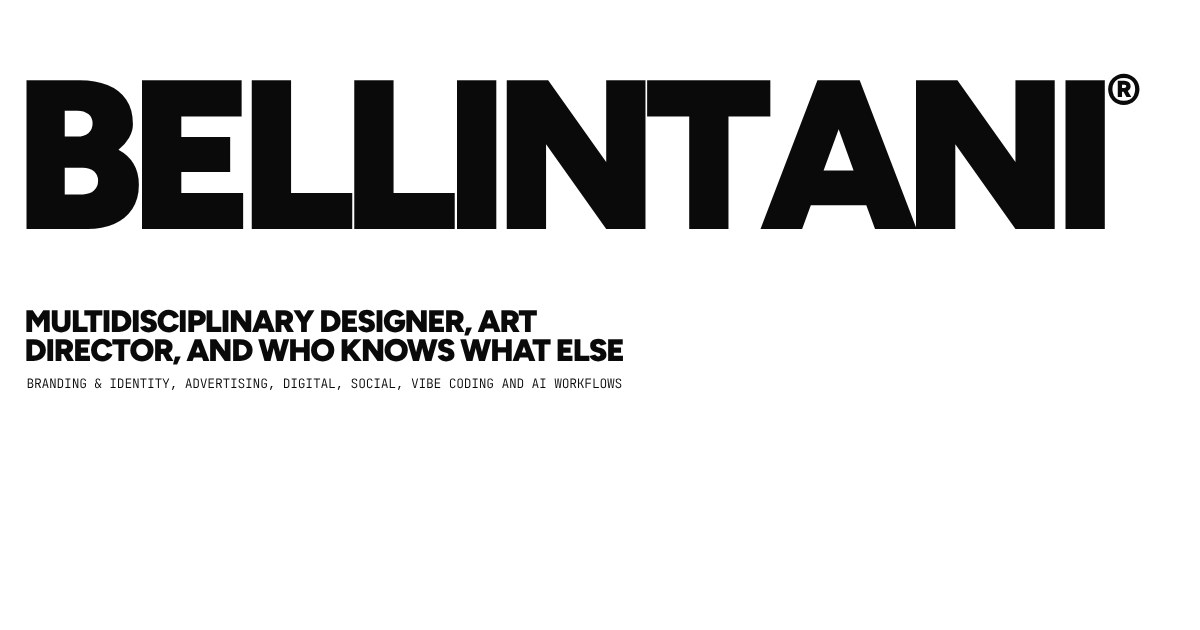
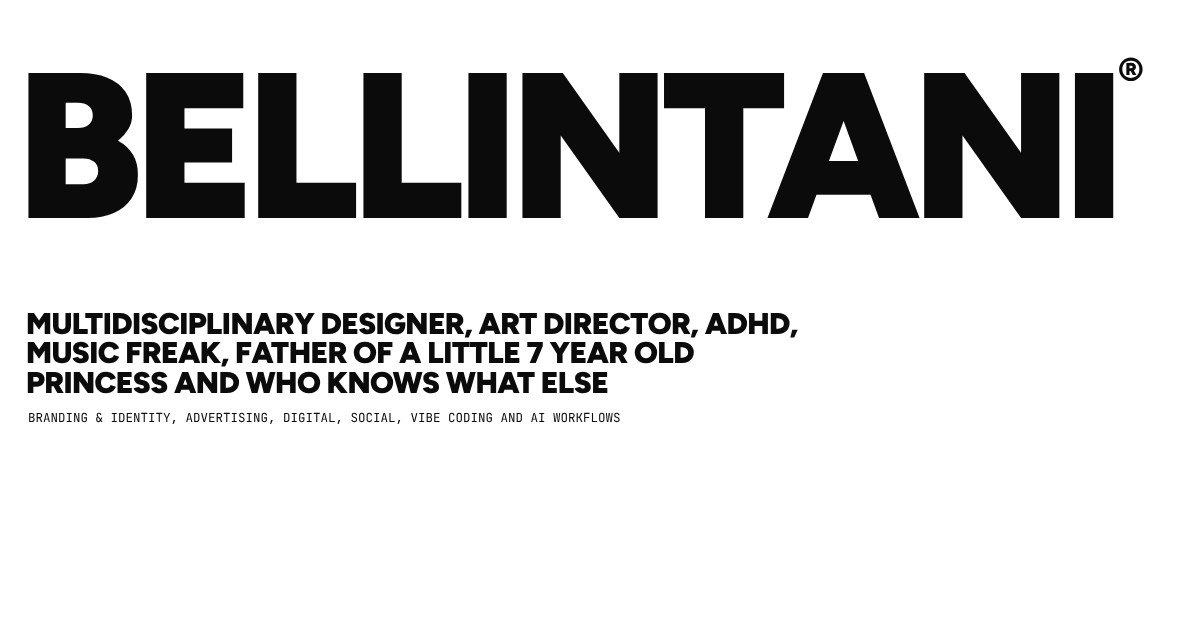
Link preview image with the new bio
Claude-Session: https://claude.ai/code/session_01SfC83KUEg3MYgc8guYjrG6

Changed region(s): [[0.0, 0.0905, 0.9558, 0.3619], [0.0, 0.4825, 0.6783, 0.6937]]

diff --git a/index.html b/index.html
@@ -12,7 +12,7 @@
 <meta property="og:url" content="https://bellintani.work/">
 <meta property="og:title" content="Bellintani">
 <meta property="og:description" content="Multidisciplinary designer, art director, ADHD, Music Freak, father of a little 7 year old princess and who knows what else.">
-<meta property="og:image" content="https://bellintani.work/images/og.jpg">
+<meta property="og:image" content="https://bellintani.work/images/og.jpg?v=20261028">
 <meta property="og:image:width" content="1200">
 <meta property="og:image:height" content="630">
 <meta name="twitter:card" content="summary_large_image">
